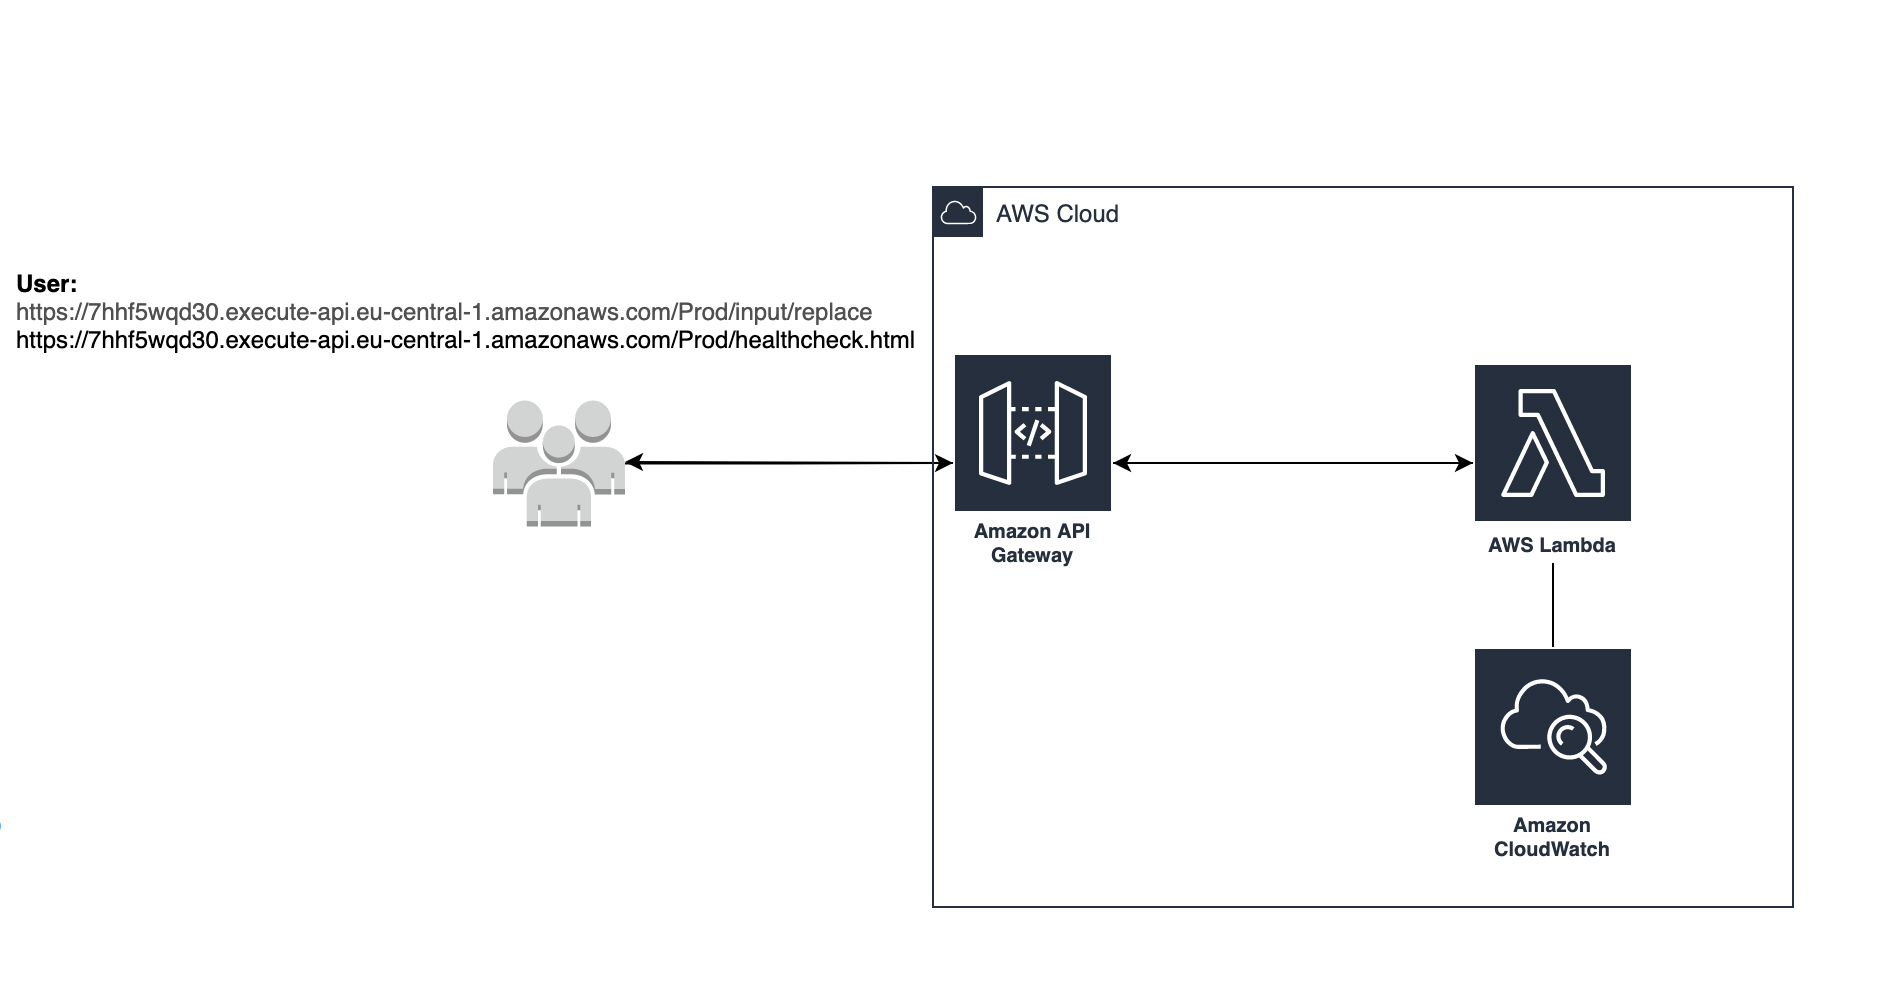
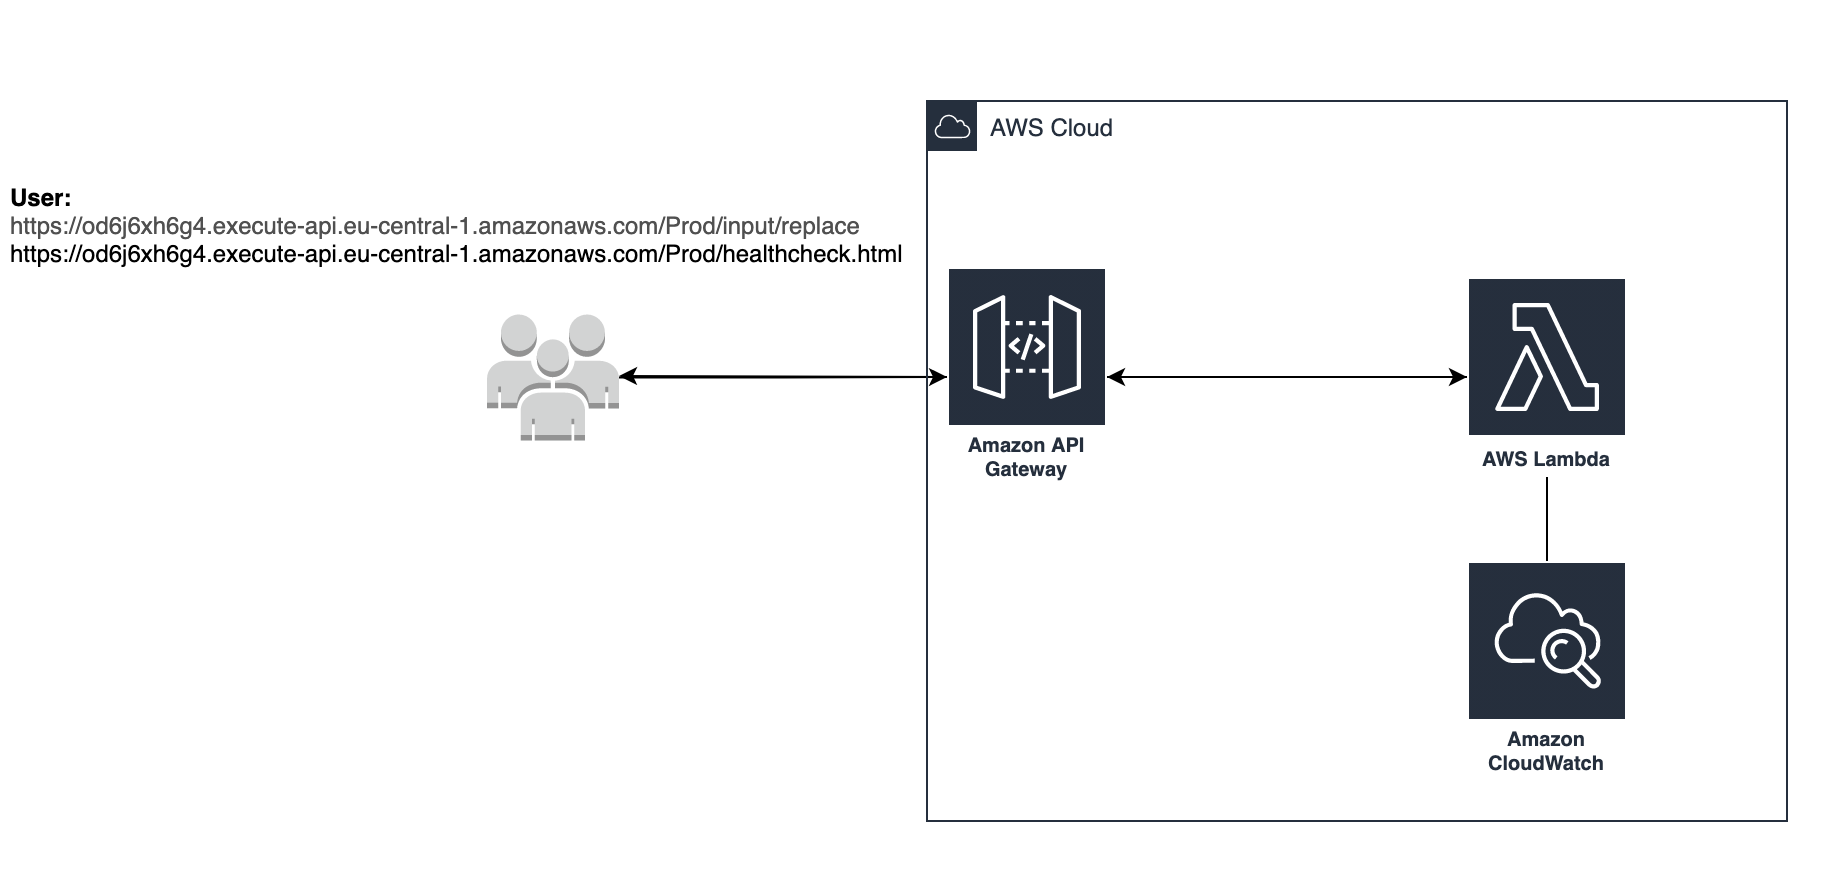
Changing the base url of API gateway

diff --git a/README.md b/README.md
@@ -26,7 +26,7 @@ Expected output: Health check: OK
 
 ---
 **Note:**
-Replace the <base-uri> : 7hhf5wqd30.execute-api.eu-central-1.amazonaws.com
+Replace the <base-uri> : od6j6xh6g4.execute-api.eu-central-1.amazonaws.com
 ---
 
 ## Design Consideration
